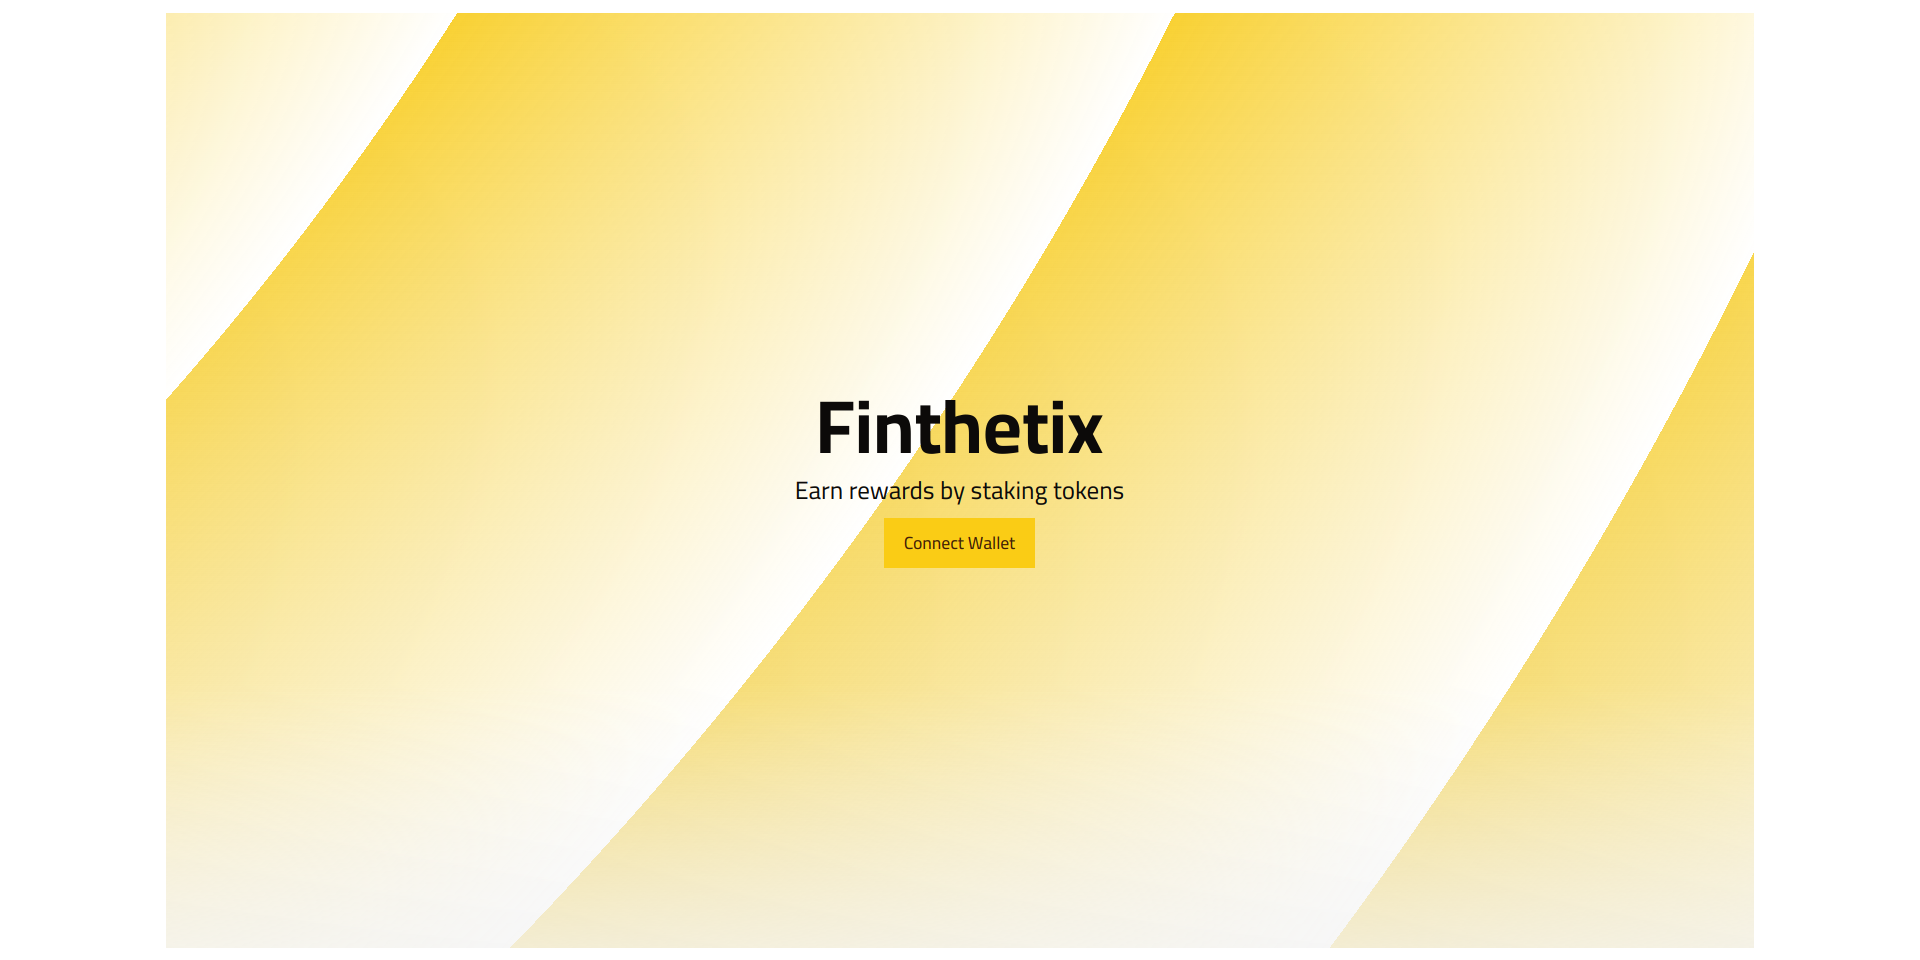
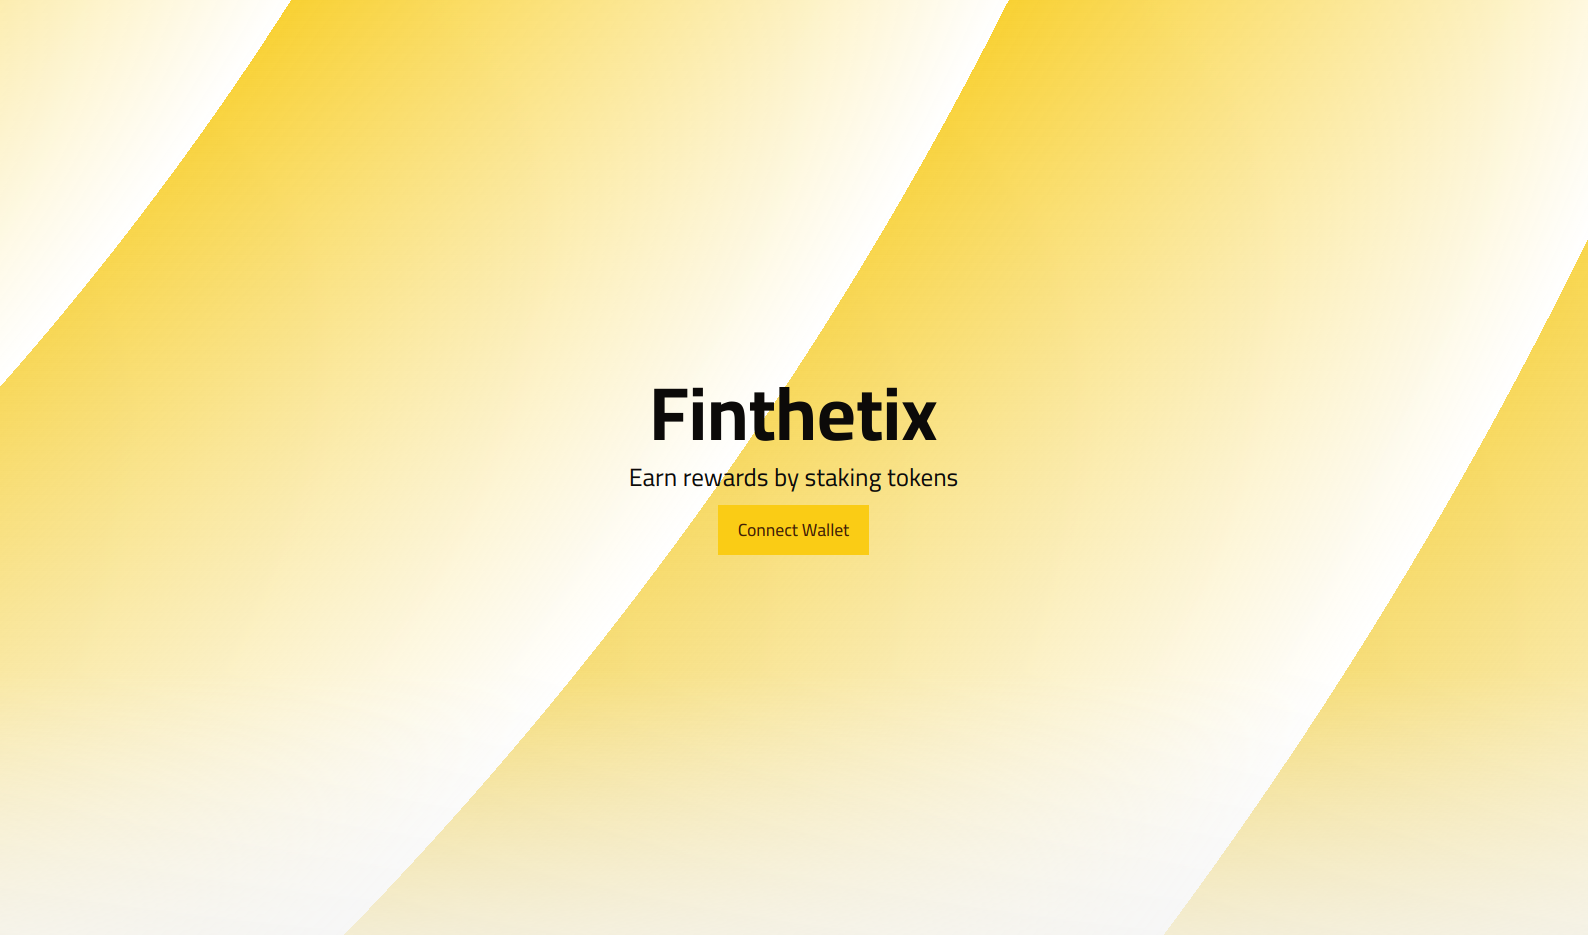
docs: Make aesthetic changes to screenshots and readme
- The screenshot is now a full-width image with no visible alpha component.

- The README now centers the embedded twitter post

- The code snippet is wrapped around the line

- The system diagram is made clickable for viewing in a separate tab

diff --git a/README.md b/README.md
@@ -20,7 +20,9 @@ Finthetix is a Staking Dapp heavily inspired by [Synthetix Stakng Rewards Contra
 - [Closing Thoughts](#closing-thoughts)
 
 ## System Diagram
+<a href="https://raw.githubusercontent.com/sayandcode/finthetix/main/documentation/readme-pics/system-diagram.png" target="_blank">
 <img src="documentation/readme-pics/system-diagram.png" alt="System Diagram for Finthetix" style="width:100%;object-fit:contain;" />
+</a>
 
 The data flow is as follows.
 - For Web3 Requests, the user talks to the API Cache Layer (RTK Query), which then relays it to Metamask via EthersJS' provider. Metamask then talks to the RPC Node ([Alchemy](https://www.alchemy.com/)), who then relays the message to the blockchain, where our Smart Contracts are deployed
@@ -339,7 +341,8 @@ I'm actually using several layers of abstraction for this network layer. This is
 class RTKQuery {
   class FinthetixContractHandler {
     class MetamaskHandler {
-      // in here I instantiate the ethers provider and call its methods
+      // in here I instantiate the ethers provider 
+      // and call its methods
     }
   }
 }
@@ -352,7 +355,9 @@ I used [Typescript](https://www.typescriptlang.org/); obviously. I also used [Zo
 
 The types for the Smart Contract are being generated at compile-time, by [TypeChain](https://github.com/dethcrypto/TypeChain). It basically looks at your compiled ABI and extracts the types from it. We use these types to create ContractHandlers generated by their respective factories. This stuff is designed with EthersJs in mind, so interop was just beautiful.
 
+<div style="display: flex; justify-content: center;">
 <blockquote class="twitter-tweet"><p lang="en" dir="ltr"><a href="https://twitter.com/hashtag/typechain?src=hash&amp;ref_src=twsrc%5Etfw">#typechain</a> was suuper easy to set up (despite the docs calling themselves legacy/antiquated). Thanks a ton <a href="https://twitter.com/dethcrypto?ref_src=twsrc%5Etfw">@dethcrypto</a> for the awesome work! <a href="https://t.co/eqco8xnZPR">pic.twitter.com/eqco8xnZPR</a></p>&mdash; sayandcode (@sayandcode) <a href="https://twitter.com/sayandcode/status/1751954115721400353?ref_src=twsrc%5Etfw">January 29, 2024</a></blockquote> <script async src="https://platform.twitter.com/widgets.js" charset="utf-8"></script>
+</div>
 
 I also have ESLint set up for linting. I used [ESLint Stylistic](eslint.style) for the config. The USP was one-stop setup; no more hunting for plugins. True for the most part; just had to set up the typescript-eslint-parser (for remix that's already done tho).
 
